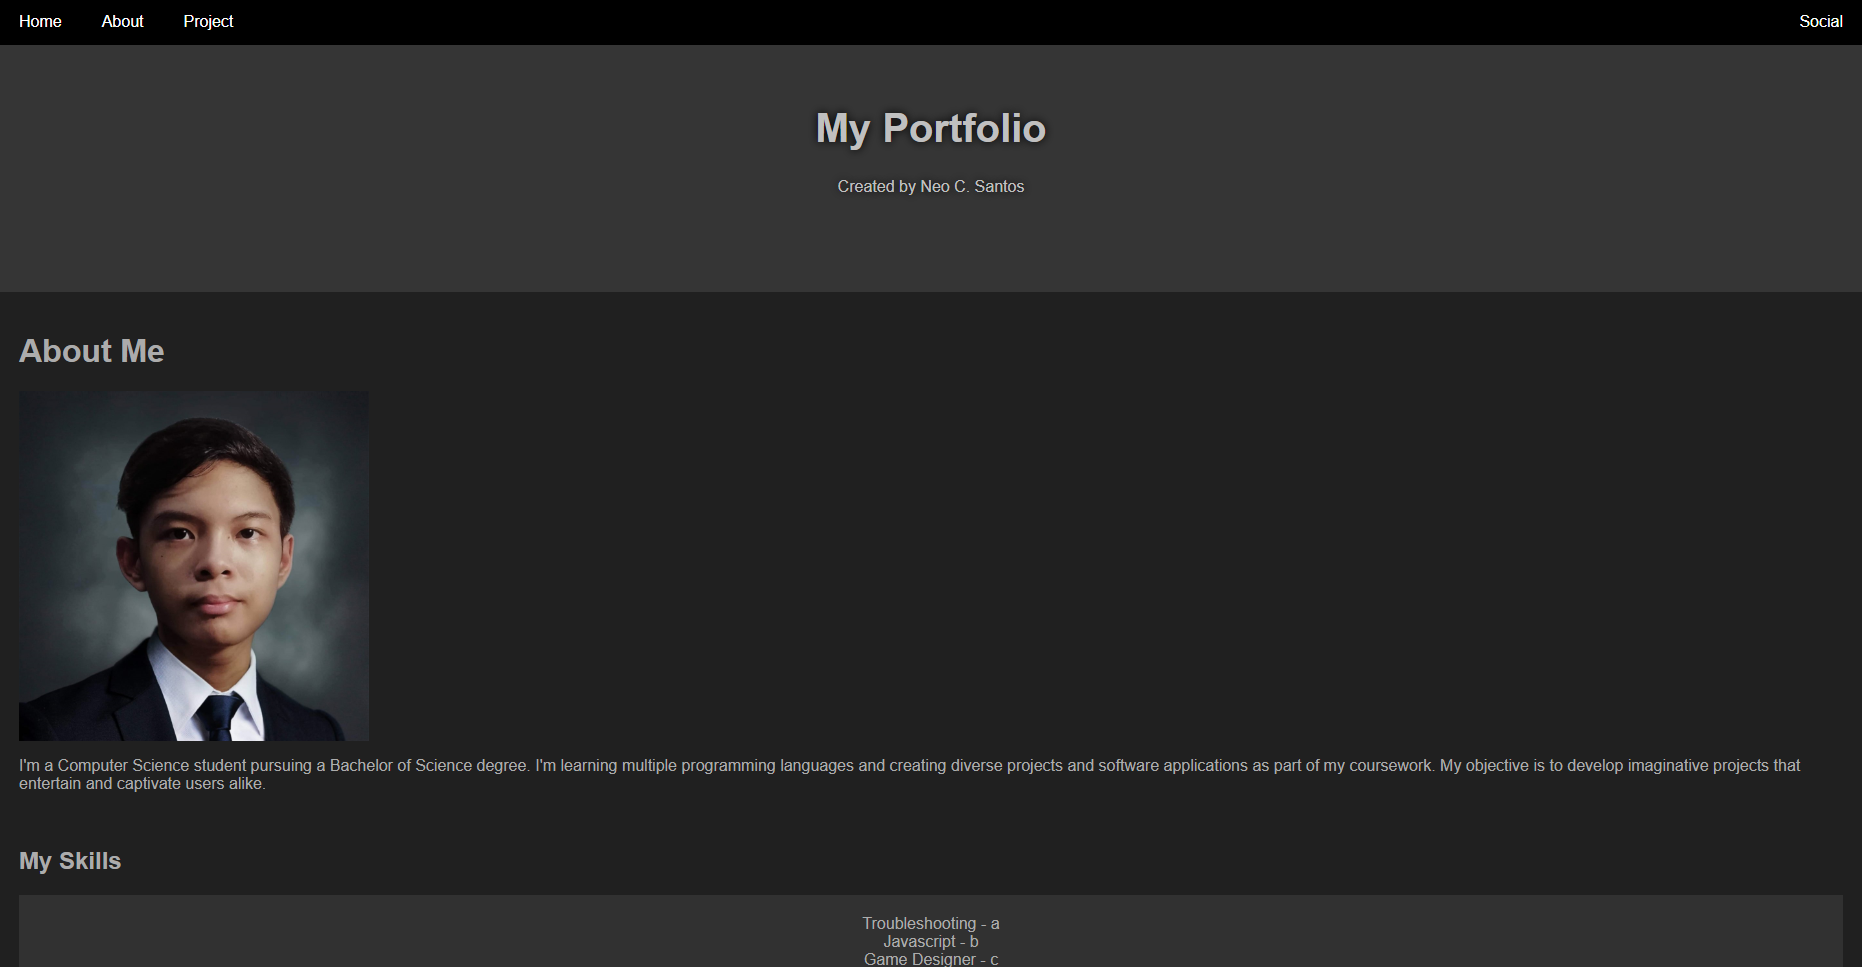
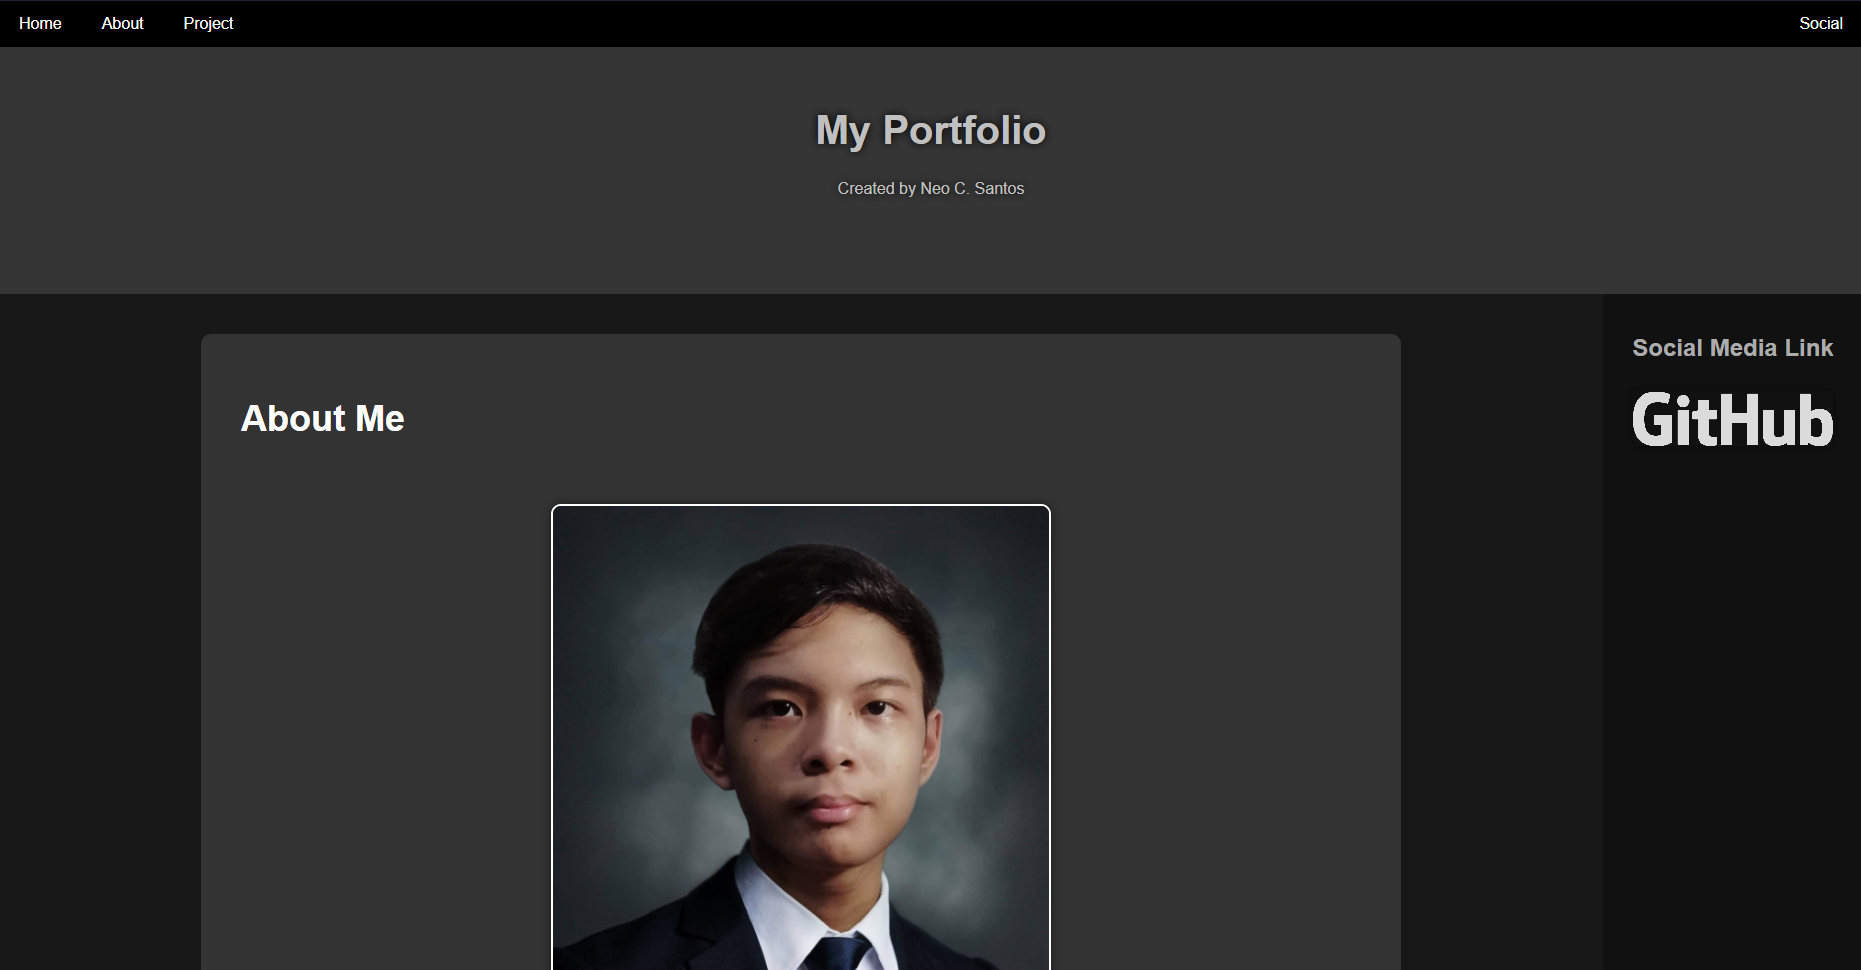
Add files via upload

diff --git a/index.html b/index.html
@@ -8,11 +8,13 @@
 </head>
 <body id="website">
 
+<!-- Header -->
 <div class="header">
   <h1>My Portfolio</h1>
   <p>Created by Neo C. Santos</p>
 </div>
 
+<!-- Navigation -->
 <div class="navbar", id="navbar">
   <a href="#">Home</a>
   <a href="#about">About</a>
@@ -20,61 +22,152 @@
   <a href="#social" class="right">Social</a>
 </div>
 
+<!-- Body -->
 <div class="row">
   <div class="main">
-    <h1 id="about">About Me</h1>
-    <img src="SANTOS_NEO.png" alt="Description of your image" style="height: 350px; width: 350px; display: block;">
-    <p>I'm a Computer Science student pursuing a Bachelor of Science degree. 
-        I'm learning multiple programming languages and creating diverse projects 
-        and software applications as part of my coursework. 
-        My objective is to develop imaginative projects that entertain 
-        and captivate users alike.</p><br>
-    <h2>My Skills</h2>
-    <div class="fakeimg" style="height:90px;" align="center">Troubleshooting - a <br> Javascript - b <br> Game Designer - c</div><br>
-    <div class="fakeimg" style="height:60px;" align="center">Image</div><br>
 
-    <h2 id="project">My Projects</h2>
+    <!-- About -->
+    <div class="container">
+      <div class="content">
+        <h1 id="about">About Me</h1>
+        <div class="profile-picture-container">
+          <img src="SANTOS_NEO.png" alt="Profile picture" class="profile-picture">
+        </div>
+        <p>I'm a Programming student pursuing a Bachelor of Computer Science degree. 
+          I'm learning multiple programming languages and creating diverse projects 
+          and software applications as part of my coursework. 
+          My objective is to develop imaginative projects that entertain 
+          and captivate users alike.</p>
+      </div>
+    </div>
 
-    <h3>Portfolio Website (Finals) | June 18, 2024</h3>
-    <a href="#website">
-        <img src="finals.png" alt="Description of your image" style="height: 600px; width: 1100px; display: block;">
-    </a>      
-    <p>Some text..</p><br>
+    <!-- Skills -->
+    <div class="container">
+      <div class="content">
+        <h1 id="about">My Skills</h1>
 
-    <h3>Debugging (Pre-Finals) | May 8, 2024</h3>
-    <a href="prefinals.html" target="_blank">
-        <img src="prefinals.png" alt="Description of your image" style="height: 600px; width: 1100px; display: block;">
-    </a>      
-    <p>Yeetus..</p><br>
-     
-    <h3>Loop and Iteration | April 17, 2024</h3>
-    <a href="midterm.html" target="_blank">
-        <img src="midterm.png" alt="Description of your image" style="height: 600px; width: 1100px; display: block;">
-    </a>      
-    <p>Fetus..</p><br>
+            <!-- Troubleshooting Skill -->
+            <div class="container">
+              <div class="content">
+                <h1 id="about">Troubleshooting</h1>
+                <p>I have the ability to find errors, solve problems, and create alternatives easier in most program languages.</p>
+              </div>
+            </div>
+
+            <!-- Javascript Skill -->
+            <div class="container">
+              <div class="content">
+                <h1 id="about">JavaScript</h1>
+                <p>I excel the most in the JavaScript and Java program languages, this is the best and most common program language I used. Although, I'm looking forward to learn other program languages too.</p>
+              </div>
+            </div>
+
+            <!-- Game Designing Skill -->
+            <div class="container">
+              <div class="content">
+                <h1 id="about">Game Designing</h1>
+                <p>The pinnacle of my programming and creative skills. I create games to entertain others, including myself, and hope one day to become a popular game developer!</p>
+              </div>
+            </div>
+        
+      <br>
+      <br>
+      <h1>Programming Languages</h1>
+      <div class="container">
+        <div class="content">
+          <div class="icon-container">
+            <img src="Java_Icon.png" alt="Icon" class="icons">
+            <img src="JavaScript_Icon.png" alt="Icon" class="icons">
+            <img src="C_Sharp_Icon.png" alt="Icon" class="icons">
+            <img src="Python_Icon.png" alt="Icon" class="icons">
+          </div>
+        </div>
+      </div>
+
+      </div>
+    </div>
     
-    <h3>Borders and Categories | February 28, 2024</h3>
-    <a href="prelim.html" target="_blank">
-        <img src="prelim.png" alt="Description of your image" style="height: 600px; width: 1100px; display: inline-block; margin: auto;">
+    <!-- Projects -->
+    <div class="container">
+      <div class="content">
+        <h1 id="project">My Projects</h1>      
+        <p>Here are my projects and background experiences</p>
+          <!-- Finals PT -->
+    <div class="container">
+      <div class="content">
+        <h1 id="about">Portfolio Website (Finals)</h1>
+        <h3>June 18, 2024</h3>
+        <a href="#website">
+          <img src="finals.png" alt="Finals_Exam" style="height: 500px; width: 1000px; display: block;">
+        </a>      
+        <h4>This is the creation of my own portfolio website as my finals project in web programming. The programs included are HTML, CSS, and JS; The contents of my website was My Photo, Projects, Skills, and Social Media Sites.</h4><br>
+      </div>
+    </div>
 
-    </a>      
-    <p>Jesus..</p><br>
+    <!-- Pre-Finals PT -->
+    <div class="container">
+      <div class="content">
+        <h1 id="about">Debugging (Pre-Finals)</h1>
+        <h3>June 18, 2024</h3>
+        <a href="prefinals.html" target="_blank">
+          <img src="prefinals.png" alt="Pre-Finals_Exam" style="height: 500px; width: 1000px; display: block;">
+        </a>        
+        <h4>The Pre-Finals activity that includes debugging, developer mode, and troubleshooting. This task was to improve our problem solving and web development skills using HTML as our programming language.</h4><br>
+      </div>
+    </div>
 
-    <h3>Personal Projects (Coming Soon "W.I.P.") | N/A</h3>
-    <div class="fakeimg" style="height:200px;">Image</div>
-    <p>Beanos..</p><br>
+    <!-- Midterm PT -->
+    <div class="container">
+      <div class="content">
+        <h1 id="about">Loop and Iteration (Midterm)</h1>
+        <h3>April 17, 2024</h3>
+        <a href="midterm.html" target="_blank">
+          <img src="midterm.png" alt="Midterm_Exam" style="height: 500px; width: 1000px; display: block;">
+        </a>     
+        <h4>A logic and function based programming activity that uses HTML, CSS, and JS with "If/Else" functions. My task was to create a comparison program that uses numbers and an input box to generate a specific output.</h4><br>
+      </div>
+    </div>
 
-    <br>
+    <!-- Prelim PT -->
+    <div class="container">
+      <div class="content">
+        <h1 id="about">Borders and Categories (Prelim)</h1>
+        <h3>February 28, 2024</h3>
+        <a href="prelim.html" target="_blank">
+          <img src="prelim.png" alt="Prelim_Exam" style="height: 500px; width: 1000px; display: inline-block; margin: auto;">
+        </a>    
+        <h4>This HTML project creates a website which uses different borders on each category lists. Each border must have multiple unique sides in each category.</h4><br>
+      </div>
+    </div>
+      </div>
+    </div>
+
+  
+
+    <!-- Personal Projects -->
+    <div class="container">
+      <div class="content">
+        <h1 id="about">Personal Projects (Coming Soon "W.I.P.")</h1>
+        <h3>June 18, 2024</h3>
+        <a href="#">
+          <img src="" alt="My Projects" style="height: 600px; width: 1100px; display: block;">
+        </a>      
+        <h4>N/A</h4><br>
+      </div>
+
   </div>
 </div>
 
+<!-- Footer -->
 <div class="footer">
-  <h2 id="social">Social Media Links</h2>
-  <p><a href="">Name</a></p>
+  <h2 id="social">Social Media Link</h2>
+  <p><a href="https://github.com/HavoqGH" target="_blank">
+    <img src="Github_Icon.png" alt="Social Media Link" alt="Media_Icon" class="media-icons">
+  </a></p>
 </div>
-
 </body>
 </html>
 
 <!---<div class="fakeimg" style="height:200px;">Image</div>
     --->
+    <!---<img src="your-image-source.jpg" alt="Description of the image">--->

diff --git a/portfolio-style.css b/portfolio-style.css
@@ -67,15 +67,54 @@
   .main {   
     -ms-flex: 70%; /* IE10 */
     flex: 70%;
-    background-color: rgb(32, 32, 32);
+    background-color: rgb(24, 24, 24);
     padding: 20px;
+    font-size: large;
   }
+
+/* Container styling */
+.container {
+  display: flex;
+  justify-content: center;
+  align-items: center;
+  padding: 20px;
+  margin: 20px auto;
+  max-width: 1200px; /* Adjust the width as needed */
+  background-color: #333; /* Dark background for dark mode */
+  border-radius: 10px;
+  box-shadow: 0 4px 8px rgba(0, 0, 0, 0.2);
+}
+
+/* Content styling */
+.content {
+  width: 100%;
+  padding: 20px;
+  color: #fff; /* Light text for readability in dark mode */
+}
+
+.content h2 {
+  font-size: 2em;
+  margin-bottom: 10px;
+}
+
+.content p {
+  font-size: 1.2em;
+  line-height: 1.6;
+}
+
+.content img {
+  max-width: 100%;
+  height: auto;
+  border-radius: 10px;
+  margin-top: 20px;
+}
   
   /* Fake image, just for this example */
   .fakeimg {
     background-color: #313131;
     width: 100%;
     padding: 20px;
+    font-size: large;
   }
   
   /* Footer */
@@ -98,4 +137,44 @@
       float: none;
       width: 100%;
     }
+  }
+
+  .profile-picture-container {
+    display: flex;
+    justify-content: center;
+    align-items: center;
+    padding: 20px;
+  }
+  
+  .profile-picture {
+    width: 500px; /* Set the desired size */
+    height: 500px; /* Set the desired size */
+    border-radius: 50%; /* Makes the image circular */
+    object-fit: cover; /* Ensures the image covers the box without stretching */
+    border: 2px solid #fff; /* Optional: Adds a border */
+    box-shadow: 0 0 10px rgba(0, 0, 0, 0.5); /* Optional: Adds a shadow */
+  }
+
+  .icon-container {
+    display: flex;
+    justify-content: center;
+    align-items: center;
+    padding: 0px;
+  }
+
+  .icons {
+    width: 100px; /* Set the desired size */
+    height: 100px; /* Set the desired size */
+    border-radius: 50%; /* Makes the image circular */
+    object-fit: cover; /* Ensures the image covers the box without stretching */
+    box-shadow: 0 0 10px rgba(0, 0, 0, 0.5); /* Optional: Adds a shadow */
+    margin: 10px;
+  }
+
+  .media-icons {
+    width: 200px; /* Set the desired size */
+    height: 55px; /* Set the desired size */
+    object-fit: cover; /* Ensures the image covers the box without stretching */
+    box-shadow: 0 0 10px rgba(0, 0, 0, 0.5); /* Optional: Adds a shadow */
+    margin: 10px;
   }
